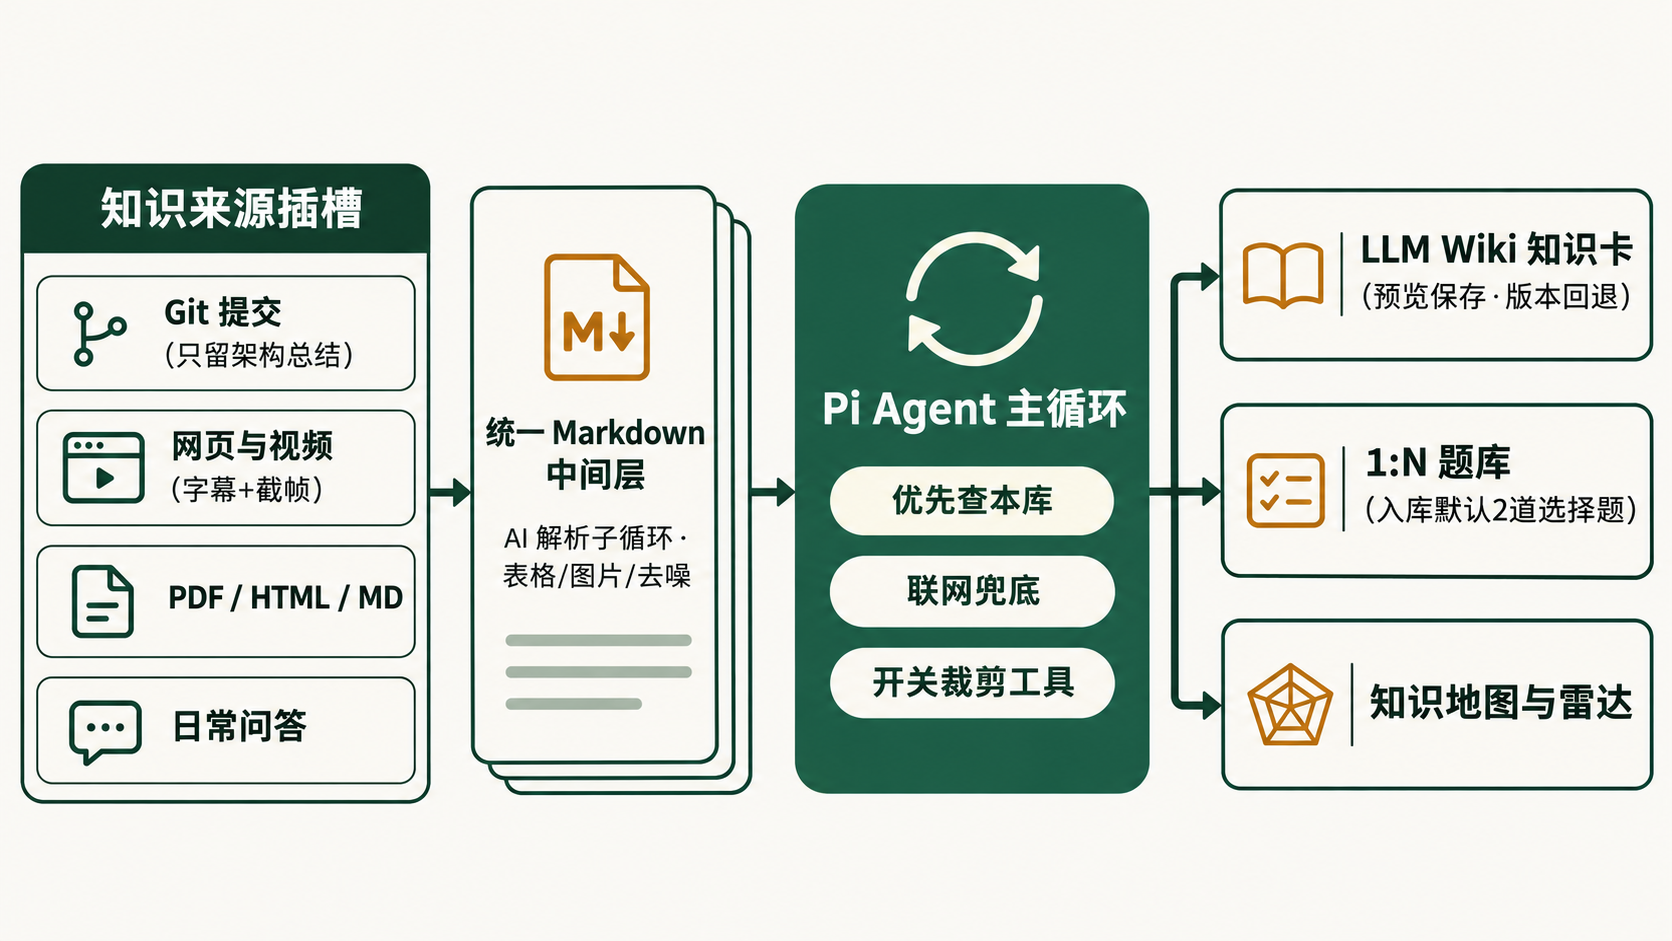
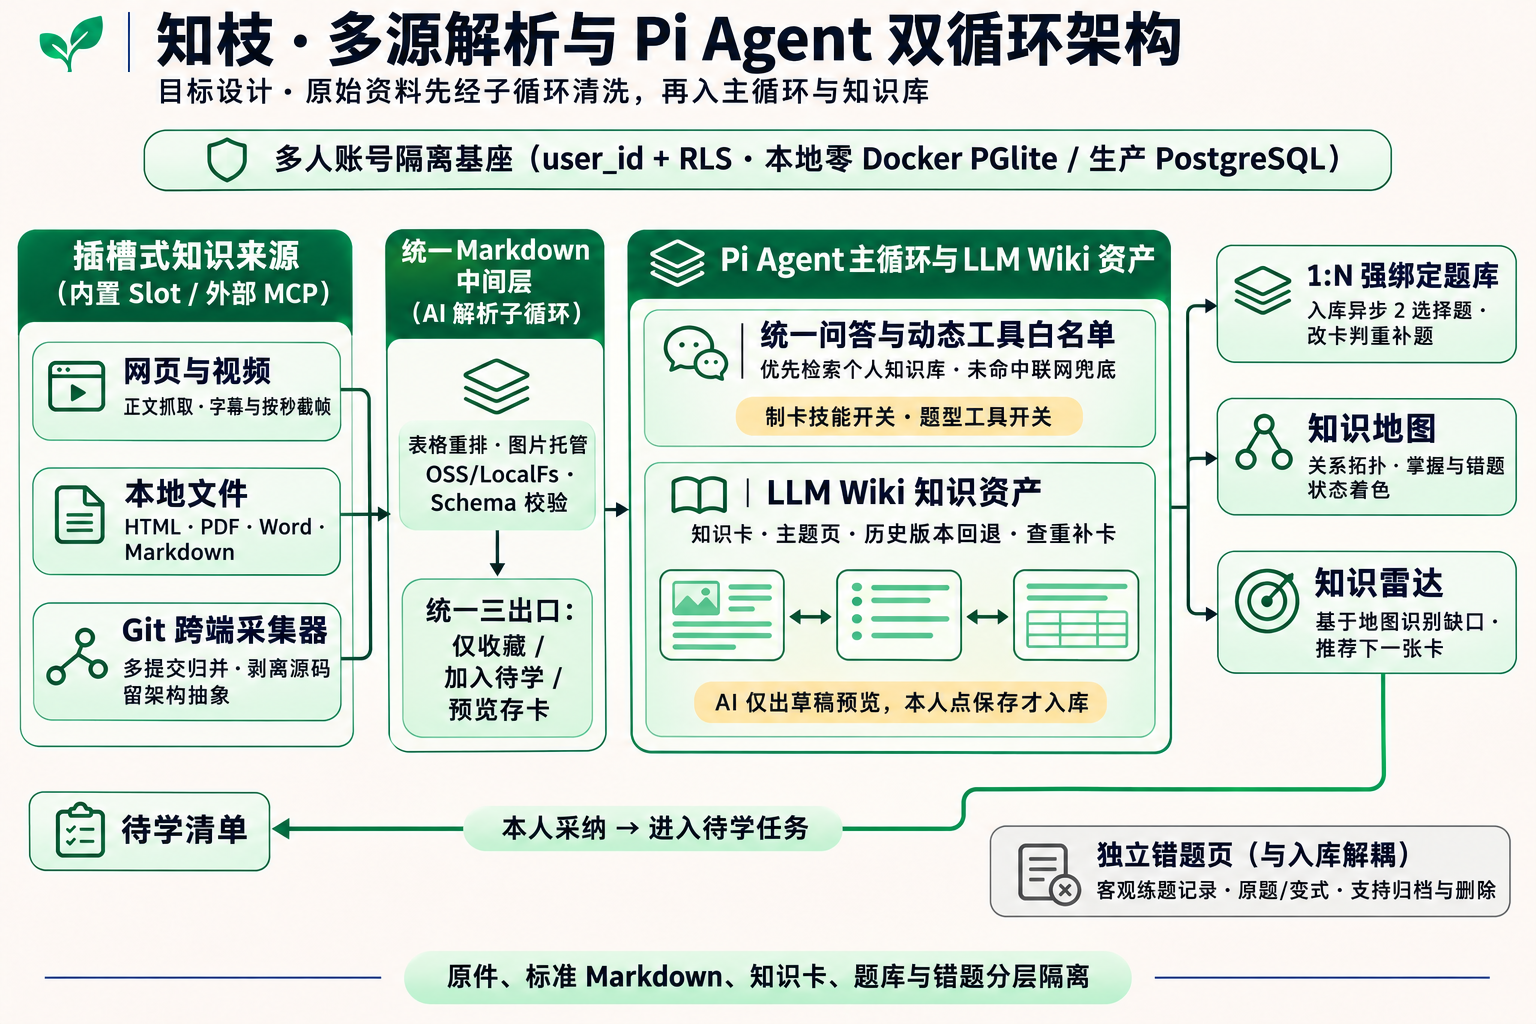
按 zhizhi-next 视觉风格重绘双图并调整 README 标题与表述

diff --git a/README.md b/README.md
@@ -1,92 +1,91 @@
 <div align="center">
   <img src="docs/assets/brand/icon.svg" width="88" height="88" alt="知枝图标" />
   <h1>知枝 · Zhizhi Agent</h1>
-  <p><strong>把平时读的文章、写的代码、问过 AI 的东西，整理成能查也能练的个人知识库。</strong></p>
-  <p>资料丢进来，先洗干净再存成知识卡；每张卡自动配题，做错的单独记下来。</p>
+  <p><strong>面向工程学习的 Agent-Native LLM Wiki 与练题系统。</strong></p>
+  <p>将多源资料与 Git 提交清洗为标准 Markdown，沉淀进可追溯的个人知识库，并通过强绑定题库、独立错题本与知识地图完成巩固。</p>
   <p>
     <a href="https://github.com/sep-zxy/zhizhi-agent/actions/workflows/ci.yml"><img src="https://github.com/sep-zxy/zhizhi-agent/actions/workflows/ci.yml/badge.svg" alt="CI" /></a>
     <a href="https://github.com/sep-zxy/zhizhi-agent/actions/workflows/cd.yml"><img src="https://github.com/sep-zxy/zhizhi-agent/actions/workflows/cd.yml/badge.svg" alt="CD" /></a>
     <a href="LICENSE"><img src="https://img.shields.io/badge/license-MIT-1f5e47.svg" alt="MIT License" /></a>
   </p>
   <p>
-    <a href="#这个项目要解决什么">要解决什么</a> ·
-    <a href="#它怎么工作">它怎么工作</a> ·
-    <a href="#界面和练题怎么设计">界面与练题</a> ·
-    <a href="#现在做到哪一步了">当前进度</a> ·
-    <a href="#跑起来看看">跑起来看看</a> ·
+    <a href="#项目定位">项目定位</a> ·
+    <a href="#双循环架构与多源解析">双循环架构</a> ·
+    <a href="#预设情境多页与知返题库">预设多页与题库</a> ·
+    <a href="#当前阶段">当前阶段</a> ·
+    <a href="#快速开始与开发">快速开始</a> ·
     <a href="docs/architecture.md">架构文档</a>
   </p>
 </div>
 
-## 这个项目要解决什么
+## 项目定位
 
-写代码、看文档、刷技术视频、跟 AI 聊方案，这些事每天都在发生，但东西散在十几个地方。收藏夹吃灰，聊天记录翻不到，真正遇到同类问题还是得重新搜一遍。
+日常开发与学习中，文章、视频、文档、代码提交和 AI 对话分散在不同地方：收藏容易吃灰，聊过的问题容易忘，直接把原始文件塞进主对话模型又会迅速拉低回答质量。
 
-知枝想做的是一件很具体的事：**给你一个带 AI 助手的知识库，而且能顺手出题把你考会。**
+**Zhizhi Agent** 把这些环节收拢到一套以个人知识库为核心的工作流里。它从第一版起按**多用户数据隔离**设计，支持零 Docker 本地单机运行，也支持直接部署到团队共享服务器。
 
-你在里面可以做四件事：
+系统由四个主要能力协同工作：
 
-- **收资料**：把网页链接、B 站/YouTube 视频、本地 PDF/HTML/Markdown 文件，或者你自己的 Git 提交记录喂给它。
-- **存知识卡**：整理成一个个独立的知识点页面，可以修改、查重、看历史版本，也能按主题串起来。
-- **问问题**：只有一个聊天窗口。你问它问题时，它自己判断先翻你的知识库；库里没记过，就去网上搜，不胡说。
-- **刷题和查漏**：每张知识卡背后挂着对应的练习题。做错了会进独立的错题本，知识地图里还能一眼看出哪一块还没学透。
+- **插槽式来源解析**：收纳网页链接、视频字幕与截帧、PDF/HTML/Word/Markdown 本地文件，以及 Git 跨端提交总结。
+- **LLM Wiki 知识库**：以单个知识点为单元沉淀知识卡，支持查重补卡、主题组织、预览确认入库与历史版本回退。
+- **统一 AI 问答**：单一对话入口。Pi Agent 自主判断优先检索当前账号知识库并附出处，库内未命中时触发联网搜索兜底。
+- **知返题库与地图雷达**：知识卡强绑定 1:N 题库，错题页与入库完全解耦并支持归档删除，知识雷达基于知识地图拓扑识别薄弱与缺失区域。
 
-项目目前还在早期开发，基座刚搭完，业务功能正按模块陆续补上。下面两张图画的是我们要做出来的样子，当前已经跑通的部分看[现在做到哪一步了](#现在做到哪一步了)。
+项目目前处于早期开发阶段，已完成工程基座与 Pi Agent 核心层接入，各业务域正并行推进。以下两张图展示完整目标架构，当前已完成与待补齐部分见[当前阶段](#当前阶段)。
 
-## 它怎么工作
+## 双循环架构与多源解析
 
-![知枝核心流程：知识来源插槽经统一 Markdown 中间层进入 Pi Agent 主循环，产出知识卡、1:N 题库与知识地图](docs/assets/vision/architecture-overview.png)
+![知枝 · 多源解析与 Pi Agent 双循环架构](docs/assets/vision/architecture-overview.png)
 
-如果把杂乱的 PDF、长视频字幕、几十条零碎 Git commit 直接塞给主聊天模型，回答质量很快就会垮掉。所以我们把流程拆成了两段：
+原始材料不允许直接进入主对话循环，整个数据链路分为「解析子循环」与「Agent 主循环」两级：
 
-1. **先用插槽解析，再进主循环**
-   每种来源都是一个独立插槽（支持内置插件，也可以挂外部 MCP 服务）。像 B 站、抖音这种经常改接口的站点，拆出去单独维护，拿掉任意一个也不影响主程序运行。
-   文件进来之后，先交给后台的 AI 子循环处理表格、提取图片存起来，统一洗成干净的 Markdown，校验通过后再交给你选去向：**仅收藏**、**放待学**，或者**预览后存成知识卡**。
+1. **插槽式来源层与统一 Markdown 中间层**
+   每种来源封装为可独立拆卸的插件槽（支持进程内插件与外部 MCP 服务）。强反爬的视频站点或基于开源项目二开的文档解析器可以单独升级或卸载，不影响主干运行。
+   解析任务在异步 **AI 解析子循环** 中执行：完成 PDF 表格重排、图片托管（LocalFs / OSS）和去噪清洗，输出通过运行时 Schema 校验的 `Standard Markdown`，再由统一三出口决定去向：**仅收藏**、**加入待学**或**预览存卡**。
 
-2. **Git 提交只留架构思路，不囤源码**
-   采集器把一堆零散提交去噪合并后，先总结成架构层面的 Markdown（当时遇到什么问题、怎么取舍的），彻底脱离原仓库代码片段。以后原仓库删了，知识卡和题目照样独立可用。
+2. **Git 采集器剥离源码，保留架构抽象**
+   Win/Mac 跨端采集器先将多次零碎提交去噪归并，提炼出架构层面的问题与方案权衡并转为标准 Markdown。知识卡和练习题不绑定原仓库、不囤大段业务源码，原仓库删除后依然完整可读。
 
-3. **一套代码，个人电脑和团队服务器都能跑**
-   从第一版起就做了多人账号隔离，所有数据都按 `user_id` 分开。你一个人想在本地用，不用装 Docker，直接 `pnpm dev` 就能跑嵌入式数据库；团队要部署到一台共享服务器，配个 PostgreSQL 连接串就能无缝切过去。
+3. **一套底座，零 Docker 本地与服务器双形态**
+   全表强制绑定 `user_id` 并配合 RLS 隔离。本地开发或个人单机使用时，默认跑嵌入式 PGlite、本地文件存储和数据库持久化队列（V1 无需 Redis 与 Docker）；迁移到团队共享服务器时，只需配置 PostgreSQL 连接串与对象存储即可无缝切换。
 
-| 平时遇到的问题 | 在知枝里怎么用 |
+| 使用场景 | 系统处理方式 |
 |---|---|
-| 搜到一篇好文章或长视频，怕收藏完就忘 | 丢进来源页，后台洗成图文 Markdown，预览删改后一键存成知识卡或放待学 |
-| 项目一天提交几十次，想复盘却懒得翻 diff | 跨端 Git 采集器把同主题提交归并成 2～3 个架构要点，不含冗长源码 |
-| 忘了自己以前记没记过某个坑 | 直接在问答页问；Agent 优先翻你的知识库并附出处，没找到再去联网搜 |
-| 聊着聊着想把结论存下来，又怕 AI 乱建卡 | 平时关着「生成知识卡」开关只聊天；想存的时候打开开关，先预览，点保存才入库 |
+| 收录网页、长视频或 PDF 资料 | 插件提取正文/字幕与关键帧，经解析子循环洗成标准 Markdown，预览删改后走统一三出口 |
+| 复盘项目中的高频 Git 提交 | 采集器将同主题提交归并为少数架构要点，脱离具体源码片段生成独立知识卡或待学项 |
+| 回顾既有笔记或探索未知问题 | 在统一问答页提问；Agent 优先查当前账号知识库并附出处，未命中时自动联网搜索 |
+| 将对话结论沉淀进知识库 | 默认关闭「生成知识卡」开关仅对话与推旧卡；打开开关后出草稿预览，点击保存才正式入库 |
 
-## 界面和练题怎么设计
+## 预设情境多页与知返题库
 
-![知枝界面与练题闭环：6 个独立功能页、页内受控卡片槽支持钉住、右侧对话流通过开关控制可用工具](docs/assets/vision/workspace-and-quiz-loop.png)
+![知枝 · 预设情境多页与知返 1:N 题库闭环](docs/assets/vision/workspace-and-quiz-loop.png)
 
-我们不想做成“全靠打字聊天”的黑盒界面，也不想让 AI 随机把整个页面改乱。
+前端不做无约束的自由生成 UI，而是把页面骨架与 Agent 操控范围划清边界：
 
-- **按功能分成 6 个独立页面**：问答、搜索、来源、Wiki、地图雷达、错题本，每个页面都有固定布局，点按钮就能直接操作，手机端也能自然变成底部 6 个 Tab。
-- **页内放受控卡片槽，支持「钉住」**：在问答页里，Agent 可以把知识卡、草稿对比卡、选择题卡直接投到中间区域。你点一下卡片右上角的「钉住」，后面再怎么继续聊，它都不会把这张卡顶掉。退出重登时，记忆系统会把你的卡片排布和常用开关恢复回来。
-- **题型做成工具，开关直接锁权限**：每种题型是一个独立的 Agent 工具。V1 先做好**选择题（带解析）**，后续再插判断题、填空题、问答题。界面上把哪个题型关了，后端就不会把这个工具发给模型，它绝对不会乱出题。
-- **一张卡挂多道题，入库默认先出两道**：新知识卡点保存立即返回，后台异步默认出 2 道选择题——一道考**理解概念**，一道考**实际场景怎么用**（怕费 Token 可以在设置里关掉）。以后你又传了新文档补充这张卡，AI 会先看已有题目覆盖了没，没覆盖才补新题。
-- **错题本完全独立，能归档能删**：错题页只做客观记录，不跟入库流程缠在一起。觉得某道错题已经彻底会了，可以直接归档或删掉，免得越攒越多没法看。
-- **地图看全局，雷达指方向**：知识地图把相关的卡连起来，按掌握情况标颜色；知识雷达直接读这张地图，告诉你已经掌握了哪一块、缺了哪一块，推荐下一张值得学的卡。
+- **6 个预设情境独立页**：按功能划分为问答页、搜索页、知识来源、LLM Wiki、地图雷达、独立错题页。桌面端采用左侧导航 + 页内多栏，移动端自然收拢为底部 Tab；前端状态与 SSE 通信逻辑沉淀在零 DOM 的 `@zhizhi/client-core`，便于后续扩展移动客户端。
+- **页内受控卡片槽与「钉住（Pin）」保护**：问答页中间区域只允许投放白名单内的预设卡片（知识卡、草稿对比卡、选择题卡等）。点击卡片右上角「钉住」后，后续对话不会覆写该槽位；记忆系统按 `user_id × 情境页` 持久化卡片排布与开关偏好，退出重登后自动续接。
+- **题型工具化与开关白名单裁剪**：每种题型封装为独立 Agent Tool。V1 优先交付**选择题（单/多选 + 解析）**，V1.5 平滑扩充判断题、填空题、问答题与伪代码预测。界面开关直接决定下发给 Pi Agent 的 Tool 白名单，关闭的题型模型无法调用。
+- **1:N 强绑定题库、入库双题与改卡判重**：独立 `card_questions` 表与知识卡强绑定，支持一卡多题挂靠。新卡保存立即返回，后台异步默认生成 2 道选择题（**认知理解** + **情境应用预测**，设置中提供全局开关）；多文档补卡或更新时，系统比对变更 Diff 与已有题目摘要，未覆盖才增量补题；再次复习优先抽未做或曾错题目，也支持追加新题。
+- **独立错题页与地图驱动雷达**：错题页独立于入库流程，仅保存客观练题记录并支持**归档与删除**，防止错题无限积压；知识雷达以知识地图的拓扑与节点掌握度为输入，定位缺失知识点并推荐下一张待学卡。
 
-## 现在做到哪一步了
+## 当前阶段
 
-开发基座已经搭完并跑通了本地与云端 CI（TypeScript 双面检查、`oxlint`、5 条静态门禁、单元测试、Web 构建全绿）：
+开发基座已参考 DeepSeek Harness 工程规范搭建完毕，本地与 GitHub Actions CI（Host/Client 双面类型检查、`oxlint` type-aware、5 条静态门禁、单元测试、Web 构建）全部通过：
 
-- **已经跑通的基座**：
-  - 全栈 TypeScript pnpm Monorepo，参考了 DeepSeek Harness 的工程规范与静态门禁。
-  - 真实接入了 Pi Agent（`@earendil-works/pi-agent-core` 与 `@earendil-works/pi-ai`），支持 DeepSeek、OpenAI 及任意 OpenAI 兼容中转站；没配 API Key 时自动走官方 `fauxProvider` 跑完整工具循环，本地开发和测试不花 Token。
-  - 18 张多租户表结构（Drizzle ORM），本地默认 PGlite 嵌入式数据库 + 本地文件存储 + 数据库队列（V1 不需要装 Redis 和 Docker）；填配置即切 PostgreSQL 与 S3/OSS。
-  - Hono 服务端（注册/登录 JWT、租户隔离中间件、按页面存画布记忆、双通道 SSE 对话）与 React 19 + Tailwind 前端骨架（6 页路由、移动底栏、PWA 配置、问答页钉住与开关演示）。
-- **接下来要补齐的 4 条业务线**（分工见 [docs/architecture.md](docs/architecture.md)）：
-  1. 知识卡与主题页的完整增删改查、版本回退、中文搜索。
-  2. 网页、视频截帧、本地文件解析插件与 AI 解析子循环，以及外部 Python MCP 解析示例。
-  3. Win/Mac Git 采集器与知识地图渲染。
-  4. 知识卡入库异步出 2 题与改卡判重、独立错题页、基于地图的知识雷达。
+- **已完成基座**：
+  - 全栈 TypeScript pnpm Monorepo（`@zhizhi/brand`、`errors`、`contracts`、`db`、`storage`、`jobs`、`plugin-sdk`、`agent-runtime`、`client-core`、`apps/server`、`apps/web`）。
+  - **Pi Agent 核心层**：接入 `@earendil-works/pi-agent-core` 与 `@earendil-works/pi-ai`，支持 DeepSeek、OpenAI 及 OpenAI 兼容接口；无密钥时自动通过官方 `fauxProvider` 跑通完整工具循环与 `beforeToolCall` 拦截。
+  - **存储与异步队列底座**：Drizzle ORM 18 张多租户表（PGlite 零 Docker 本地 / PostgreSQL 生产双驱动）、LocalFs / S3 存储抽象、基于 `async_jobs` 表的持久化队列。
+  - **多租户服务端与 6 页前端骨架**：Hono 鉴权与双通道 SSE `/api/v1/chat/turn`、按情境页画布记忆 `/api/v1/canvas-state`、React 19 + Tailwind v4 + PWA 骨架。
+- **并行推进中的 4 条业务线**（接口边界见 [docs/architecture.md](docs/architecture.md)）：
+  1. **A 线（底座与 Wiki）**：知识卡与主题页 CRUD、预览保存与历史版本回退、中文全文检索。
+  2. **B 线（插槽与中间层）**：网页/视频截帧与本地文件插件、AI 解析子循环 Worker、外部 Python MCP 插件模板。
+  3. **C 线（Git 与地图）**：Win/Mac 跨端 Git 采集器、知识地图关系图谱与掌握状态着色。
+  4. **D 线（Agent 与知返）**：真实检索与联网工具接线、入库异步 2 题与改卡判重 Worker、独立错题页（归档/删除）与地图驱动雷达。
 
-## 跑起来看看
+## 快速开始与开发
 
-需要 Node.js `>= 24.12.0` 和 pnpm `10.x`。本地跑**不需要 Docker**。
+环境要求：**Node.js `>= 24.12.0`**、**pnpm `10.x`**（本地开发不依赖 Docker）。
 
 ```sh
 git clone https://github.com/sep-zxy/zhizhi-agent.git
@@ -95,56 +94,57 @@ pnpm install
 pnpm dev
 ```
 
-启动后：
+启动后访问：
 - 前端页面：`http://127.0.0.1:5173`
-- 后端接口：`http://127.0.0.1:3080`（自动在 `.zhizhi/` 下初始化本地数据库和文件目录）
+- 后端服务：`http://127.0.0.1:3080`（自动在 `.zhizhi/` 下初始化本地嵌入式 PGlite 与附件目录）
 
-本地运行全部检查和测试：
+运行全套类型检查、Lint、5 条静态门禁与测试：
 
 ```sh
 pnpm run check:all
 pnpm --filter @zhizhi/web run build
 ```
 
-如果你想在共享服务器上用容器拉起 PostgreSQL（含 pgvector）和 MinIO：
+如需在共享服务器使用容器拉起 PostgreSQL（含 pgvector）与 MinIO：
 
 ```sh
 docker compose -f deploy/docker-compose.yml up -d
 ```
 
-仓库里已经配好了 GitHub Actions：每次 Push / PR 会跑 `ci.yml` 检查代码和构建；打 `v*` 标签或手动触发 `cd.yml` 会构建镜像推到 GHCR 并生成 Release。
+仓库已内置 GitHub Actions：`.github/workflows/ci.yml` 在每次 Push / PR 执行全套校验与构建；`.github/workflows/cd.yml` 在推送 `v*` 标签或手动触发时构建发布包并推送容器镜像至 GHCR。
 
 ## 目录结构
 
 ```text
 zhizhi-agent/
-├── AGENTS.md / CLAUDE.md       # 工程红线与 AI 协作约定
+├── AGENTS.md / CLAUDE.md       # 工程红线与 AI 协作规范
 ├── docs/
-│   ├── architecture.md         # 分层架构与 4 人并行接口边界
-│   ├── core-guidelines/        # 编码规范
-│   ├── specs/                  # 完整功能树 (v3.2) 与架构设计 (v1.2) HTML
-│   └── assets/                 # 图标与示意图
+│   ├── architecture.md         # 五层架构与 4 人并行接口边界
+│   ├── core-guidelines/        # G / B / F 编码规范
+│   ├── specs/                  # 产品功能树 (v3.2) 与系统架构设计 (v1.2) HTML
+│   └── assets/                 # 品牌图标与目标设计图
 ├── packages/
-│   ├── shared/                 # brand（品牌 ID）、errors、contracts（Zod 契约）
-│   ├── infra/                  # db（PGlite/PG）、storage（LocalFs/S3）、jobs（异步队列）
-│   ├── ingest/plugin-sdk/      # 来源插槽协议（Slot + MCP）与 Markdown 校验
-│   ├── agent/runtime/          # Pi Agent 主循环、工具开关裁剪、独立子循环
-│   └── client/core/            # 零 DOM 前端状态机与 SSE 解析（方便以后做手机端）
+│   ├── shared/                 # brand（品牌 ID）、errors、contracts（共享 Zod 契约）
+│   ├── infra/                  # db（PGlite/PG）、storage（LocalFs/S3）、jobs（持久化队列）
+│   ├── ingest/plugin-sdk/      # 来源插槽注册表（Slot + MCP）与 StandardMarkdown 校验
+│   ├── agent/runtime/          # Pi Agent 主循环、开关工具裁剪与独立子循环
+│   └── client/core/            # 零 DOM 状态机与 SSE 解析（兼容未来移动端）
 ├── apps/
-│   ├── server/                 # Hono 服务端与多租户鉴权
-│   └── web/                    # React 19 + Vite + Tailwind 前端
-├── scripts/                    # 5 条静态门禁（禁 as unknown、查租户隔离、查跨层引用等）
-└── deploy/                     # Dockerfile 与可选 docker-compose.yml
+│   ├── server/                 # Hono 服务端与多租户鉴权中间件
+│   └── web/                    # React 19 + Vite + Tailwind（6 个预设情境页 + PWA）
+├── scripts/                    # 5 条静态门禁脚本（pnpm run check）
+├── deploy/                     # Dockerfile 与可选 docker-compose.yml
+└── .github/workflows/          # CI（校验与构建）与 CD（GHCR 镜像与 Release）
 ```
 
-## 隐私与安全
+## 数据安全与隔离边界
 
-- 数据按账号四层隔离：登录令牌定身份、数据库查 `user_id`、检索先过滤租户、附件按 `u/{user_id}/` 分目录存放。
-- AI 生成或修改知识卡只出草稿，点保存才正式写入，且每次保存留历史版本。
-- 模型 API Key 由用户自行配置，不随仓库分发，也不要把 `.env` 提交进 Git。
+- **四重多租户隔离**：鉴权中间件注入 `TenantContext` → 数据库 `withTenant()` 与 PostgreSQL RLS 兜底 → 检索前置 `user_id` 过滤 → 对象存储强制校验 `u/{user_id}/...` 路径前缀。
+- **写库人工确认**：Agent 仅生成知识卡草稿投递到受控槽位，用户点击保存才正式落库并保留历史版本。
+- **密钥隔离**：模型 API Key 由各账号自行配置，严禁将 `.env` 或凭据提交至代码仓库。
 
 ## 参与贡献与许可证
 
-欢迎提 Issue 或 Pull Request，动工前先看 [CONTRIBUTING.md](CONTRIBUTING.md) 和 [AGENTS.md](AGENTS.md)。
+欢迎通过 Issue 与 Pull Request 参与共建，提交前请先阅读 [CONTRIBUTING.md](CONTRIBUTING.md) 与 [AGENTS.md](AGENTS.md)。
 
-使用 [MIT License](LICENSE) 开源。
+本项目遵循 [MIT License](LICENSE)。
